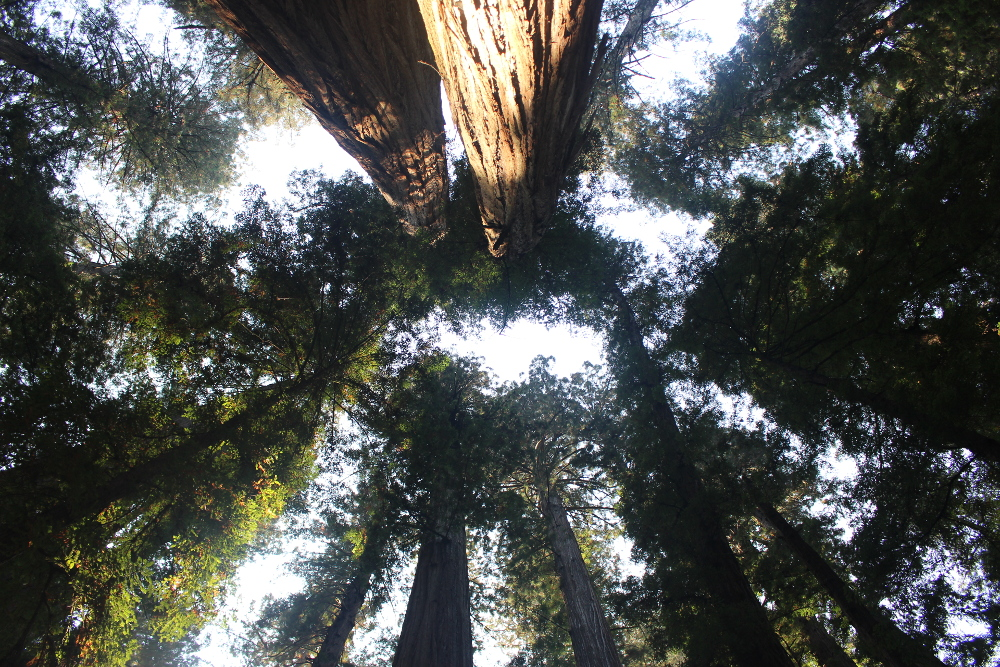
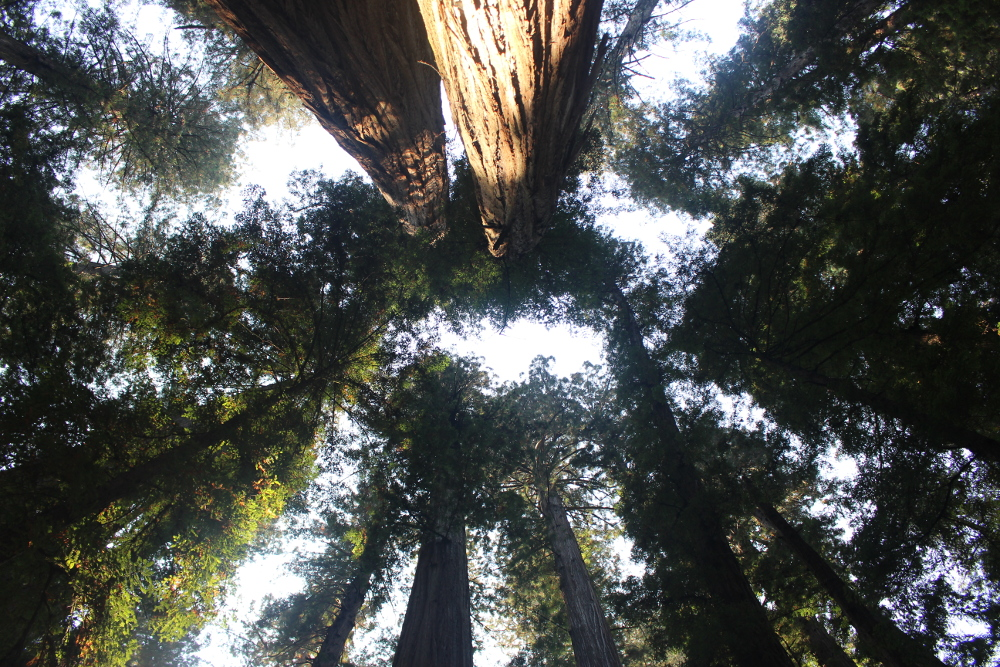
added hover effect for social nav and finished fixing greater heights photo

diff --git a/app/temp/styles/styles.css b/app/temp/styles/styles.css
@@ -726,7 +726,7 @@ h1, h2 {
 	}
 
 .image {
-		height: 400px;		
+		height: 600px;		
 		background-image: url(/assets/images/greater_heights.jpg);
 		background-position: center;
 		background-repeat: no-repeat;
@@ -2271,6 +2271,10 @@ h1, h2 {
 
 .social-nav ul li i {
                 color: #fff;
+            }
+
+.social-nav ul li i:hover {
+                color: #ff7f50;
             }
 
 .cta {

diff --git a/app/assets/styles/modules/_image.css b/app/assets/styles/modules/_image.css
@@ -1,5 +1,5 @@
 .image {
-		height: 400px;		
+		height: 600px;		
 		background-image: url(/assets/images/greater_heights.jpg);
 		background-position: center;
 		background-repeat: no-repeat;

diff --git a/app/assets/styles/modules/_social-nav.css b/app/assets/styles/modules/_social-nav.css
@@ -22,6 +22,10 @@
             i {
                 color: #fff;
             }
+
+            i:hover {
+                color: $coral;
+            }
        }
     }
 }
